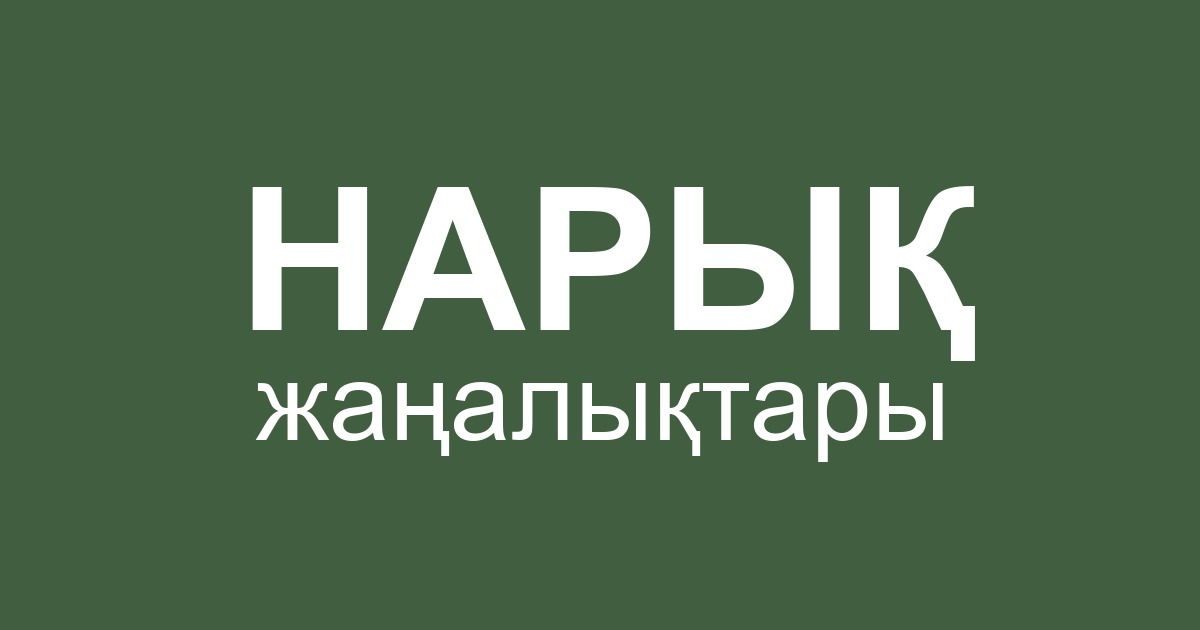
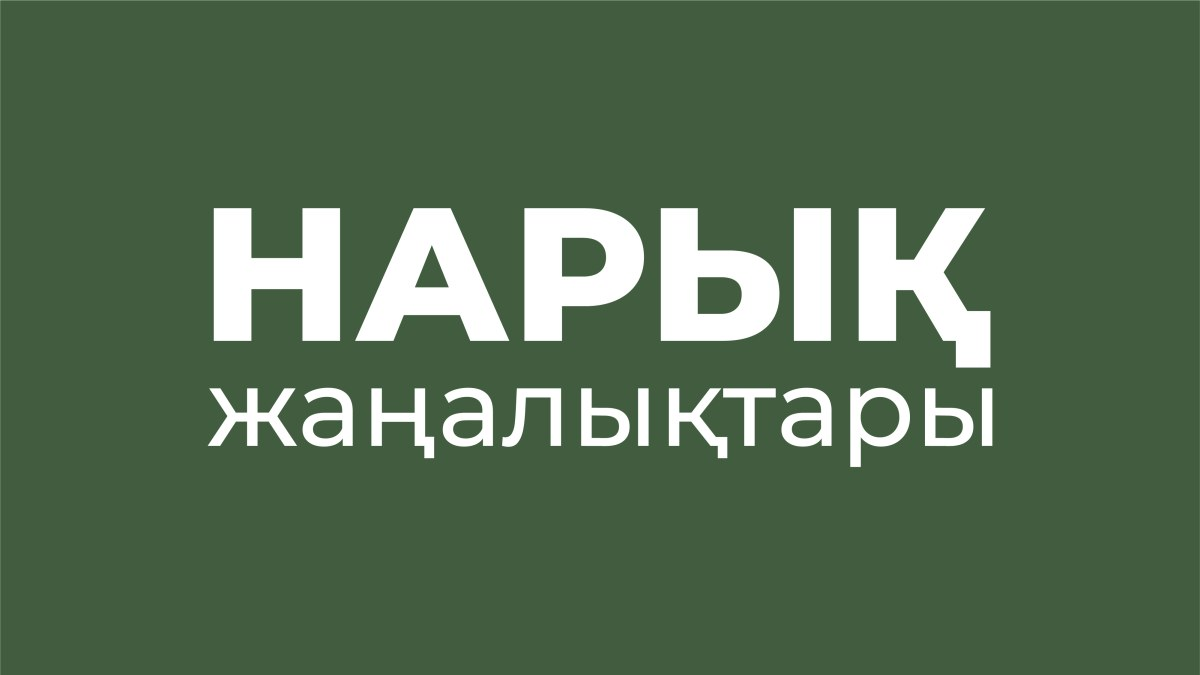
Use the client's own wordmark for the no-cover image
The stand-in is replaced with the file the client sent — the green НАРЫҚ
жаңалықтары — resized from 4001px to 1200 so a fallback loaded across a rubric
grid stays light. The grid card's letterbox now carries the file's exact green,
sampled at #425c3f, a shade off the ticker's, so the fitted 16:9 card leaves no
seam in the 16:10 window.

Changed region(s): [[0.1542, 0.2714, 0.8325, 0.7238]]

diff --git a/public/assets/site.css b/public/assets/site.css
@@ -1017,11 +1017,12 @@ a:hover {
 }
 
 /*
- * The stand-in wordmark is wider than the card's window, so it is fitted rather
- * than cropped and the green fills what is left over.
+ * The client's card is 16:9 and the window 16:10, so it is fitted rather than
+ * cropped and its own green — sampled from the file, a shade off the ticker's —
+ * fills the letterbox so there is no seam.
  */
 .grid-card__media--fallback {
-    background: var(--green-logo);
+    background: #425c3f;
 }
 
 .grid-card__media--fallback img {
